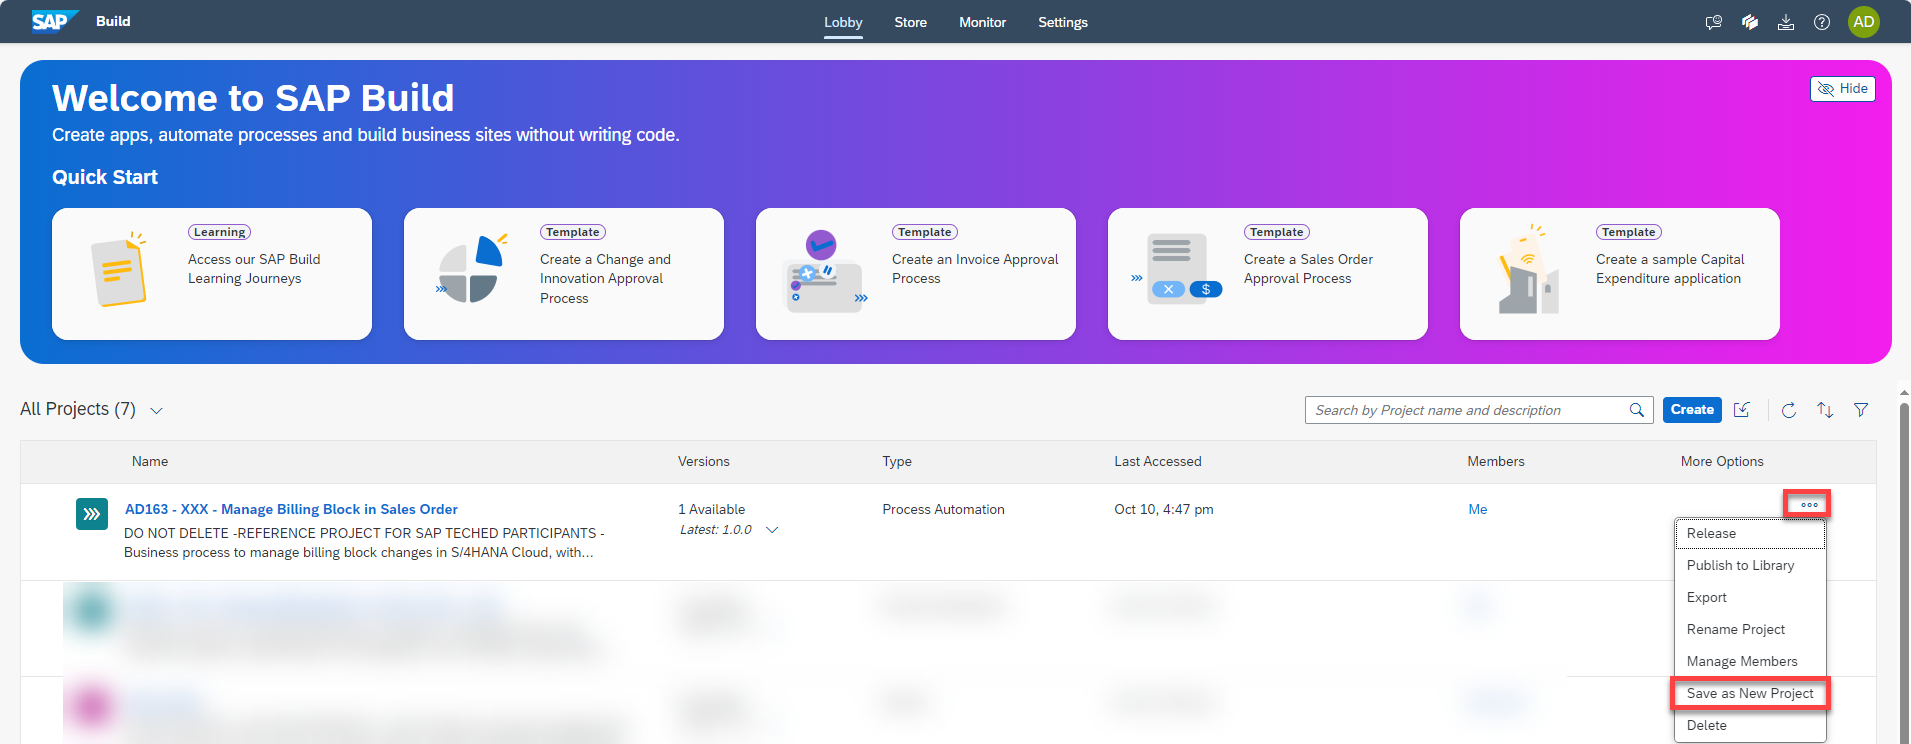
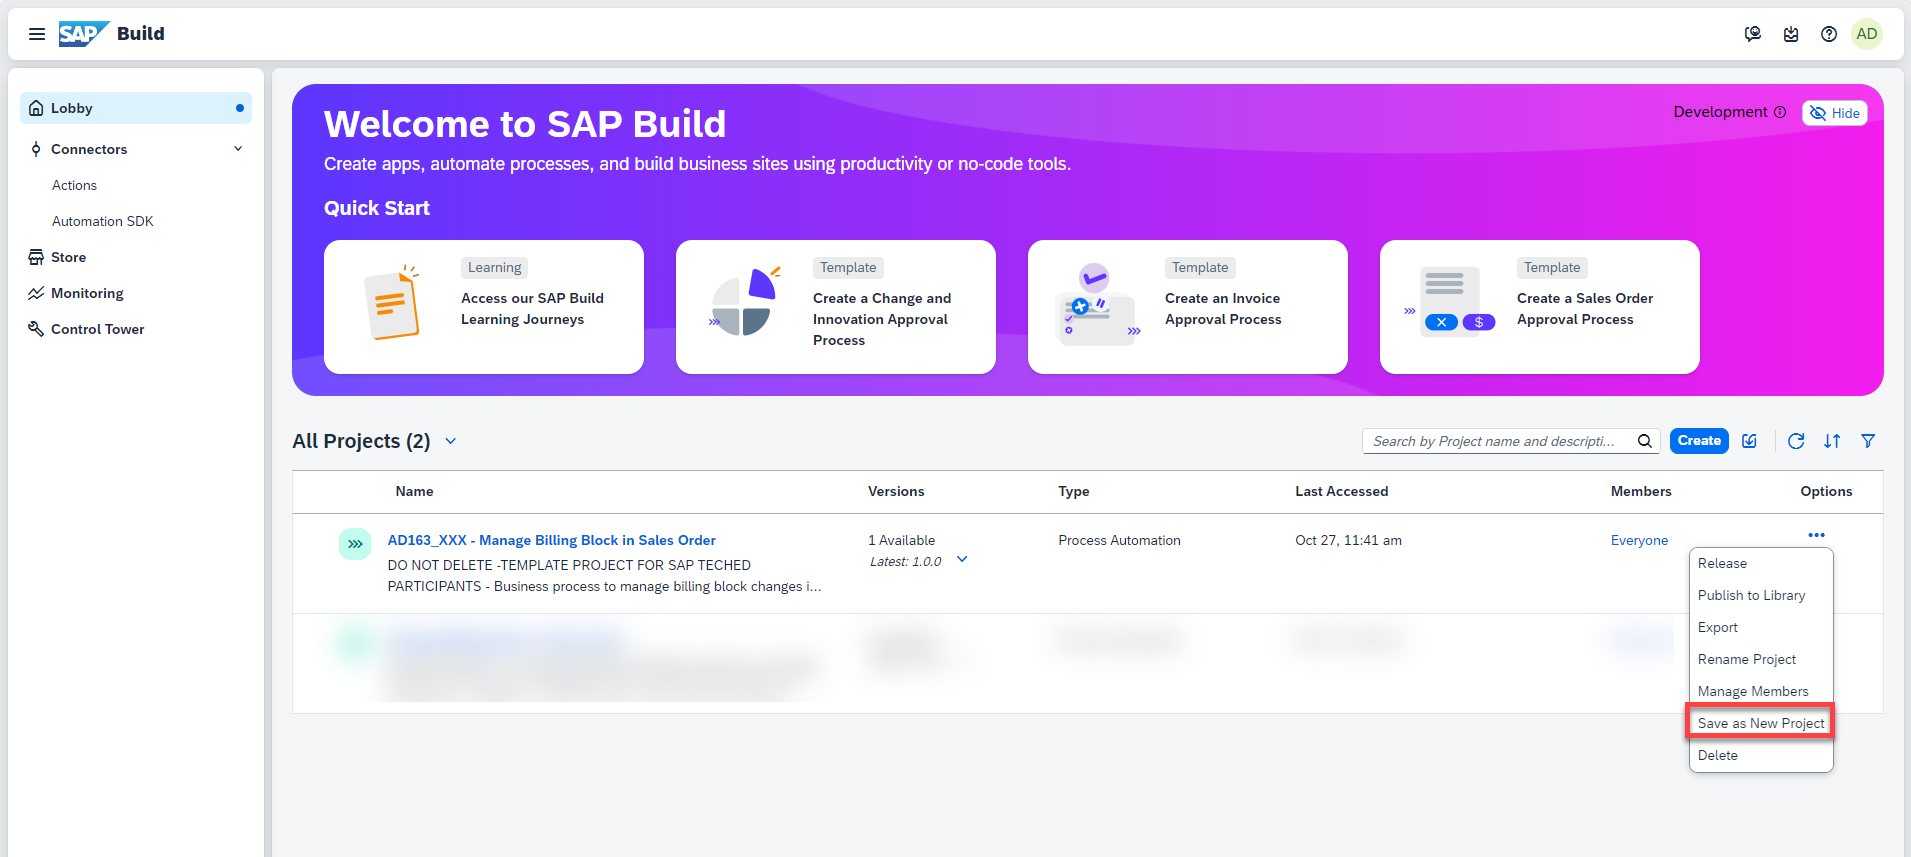
update readme.md

diff --git a/exercises/2_CreateProcess/README.md b/exercises/2_CreateProcess/README.md
@@ -32,9 +32,9 @@ In this exercise you will learn:
 - How to release and deploy the process
 
 ## Exercise 2.1 - Add Event Trigger to Process <a name="eventTrigger"></a>
-  Navigate to SAP Build Lobby. https://ad163-hxj0v9xc.eu10.build.cloud.sap/lobby
+  Navigate to SAP Build Lobby: https://ad163-hxj0v9xc.eu10.build.cloud.sap/lobby
 
-1. In the Lobby, select the three dots next to project **AD163 - XXX - Manage Billing Block in Sales Order**, then choose **Save as New Project**.
+1. In the Lobby, select the three dots next to project **AD163_XXX - Manage Billing Block in Sales Order**, then choose **Save as New Project**.
 
   ![02](./images//001.png)
 
@@ -42,13 +42,14 @@ In this exercise you will learn:
 
   - Select **Editable version** as **Version**
   - Replace the XXX in the **Project Name** with your user name
+  - You may update the **Description**
   - Choose **Save as new**
 
   ![02](./images//002.png)
 
-  Your project gets created in the Lobby.
+  Your project starts getting created in the Lobby. 
 
-3. Click on the newly created project.
+3. Wait until the project is successfully created and then click on the newly created project.
 
   ![02](./images//003.png)
 
